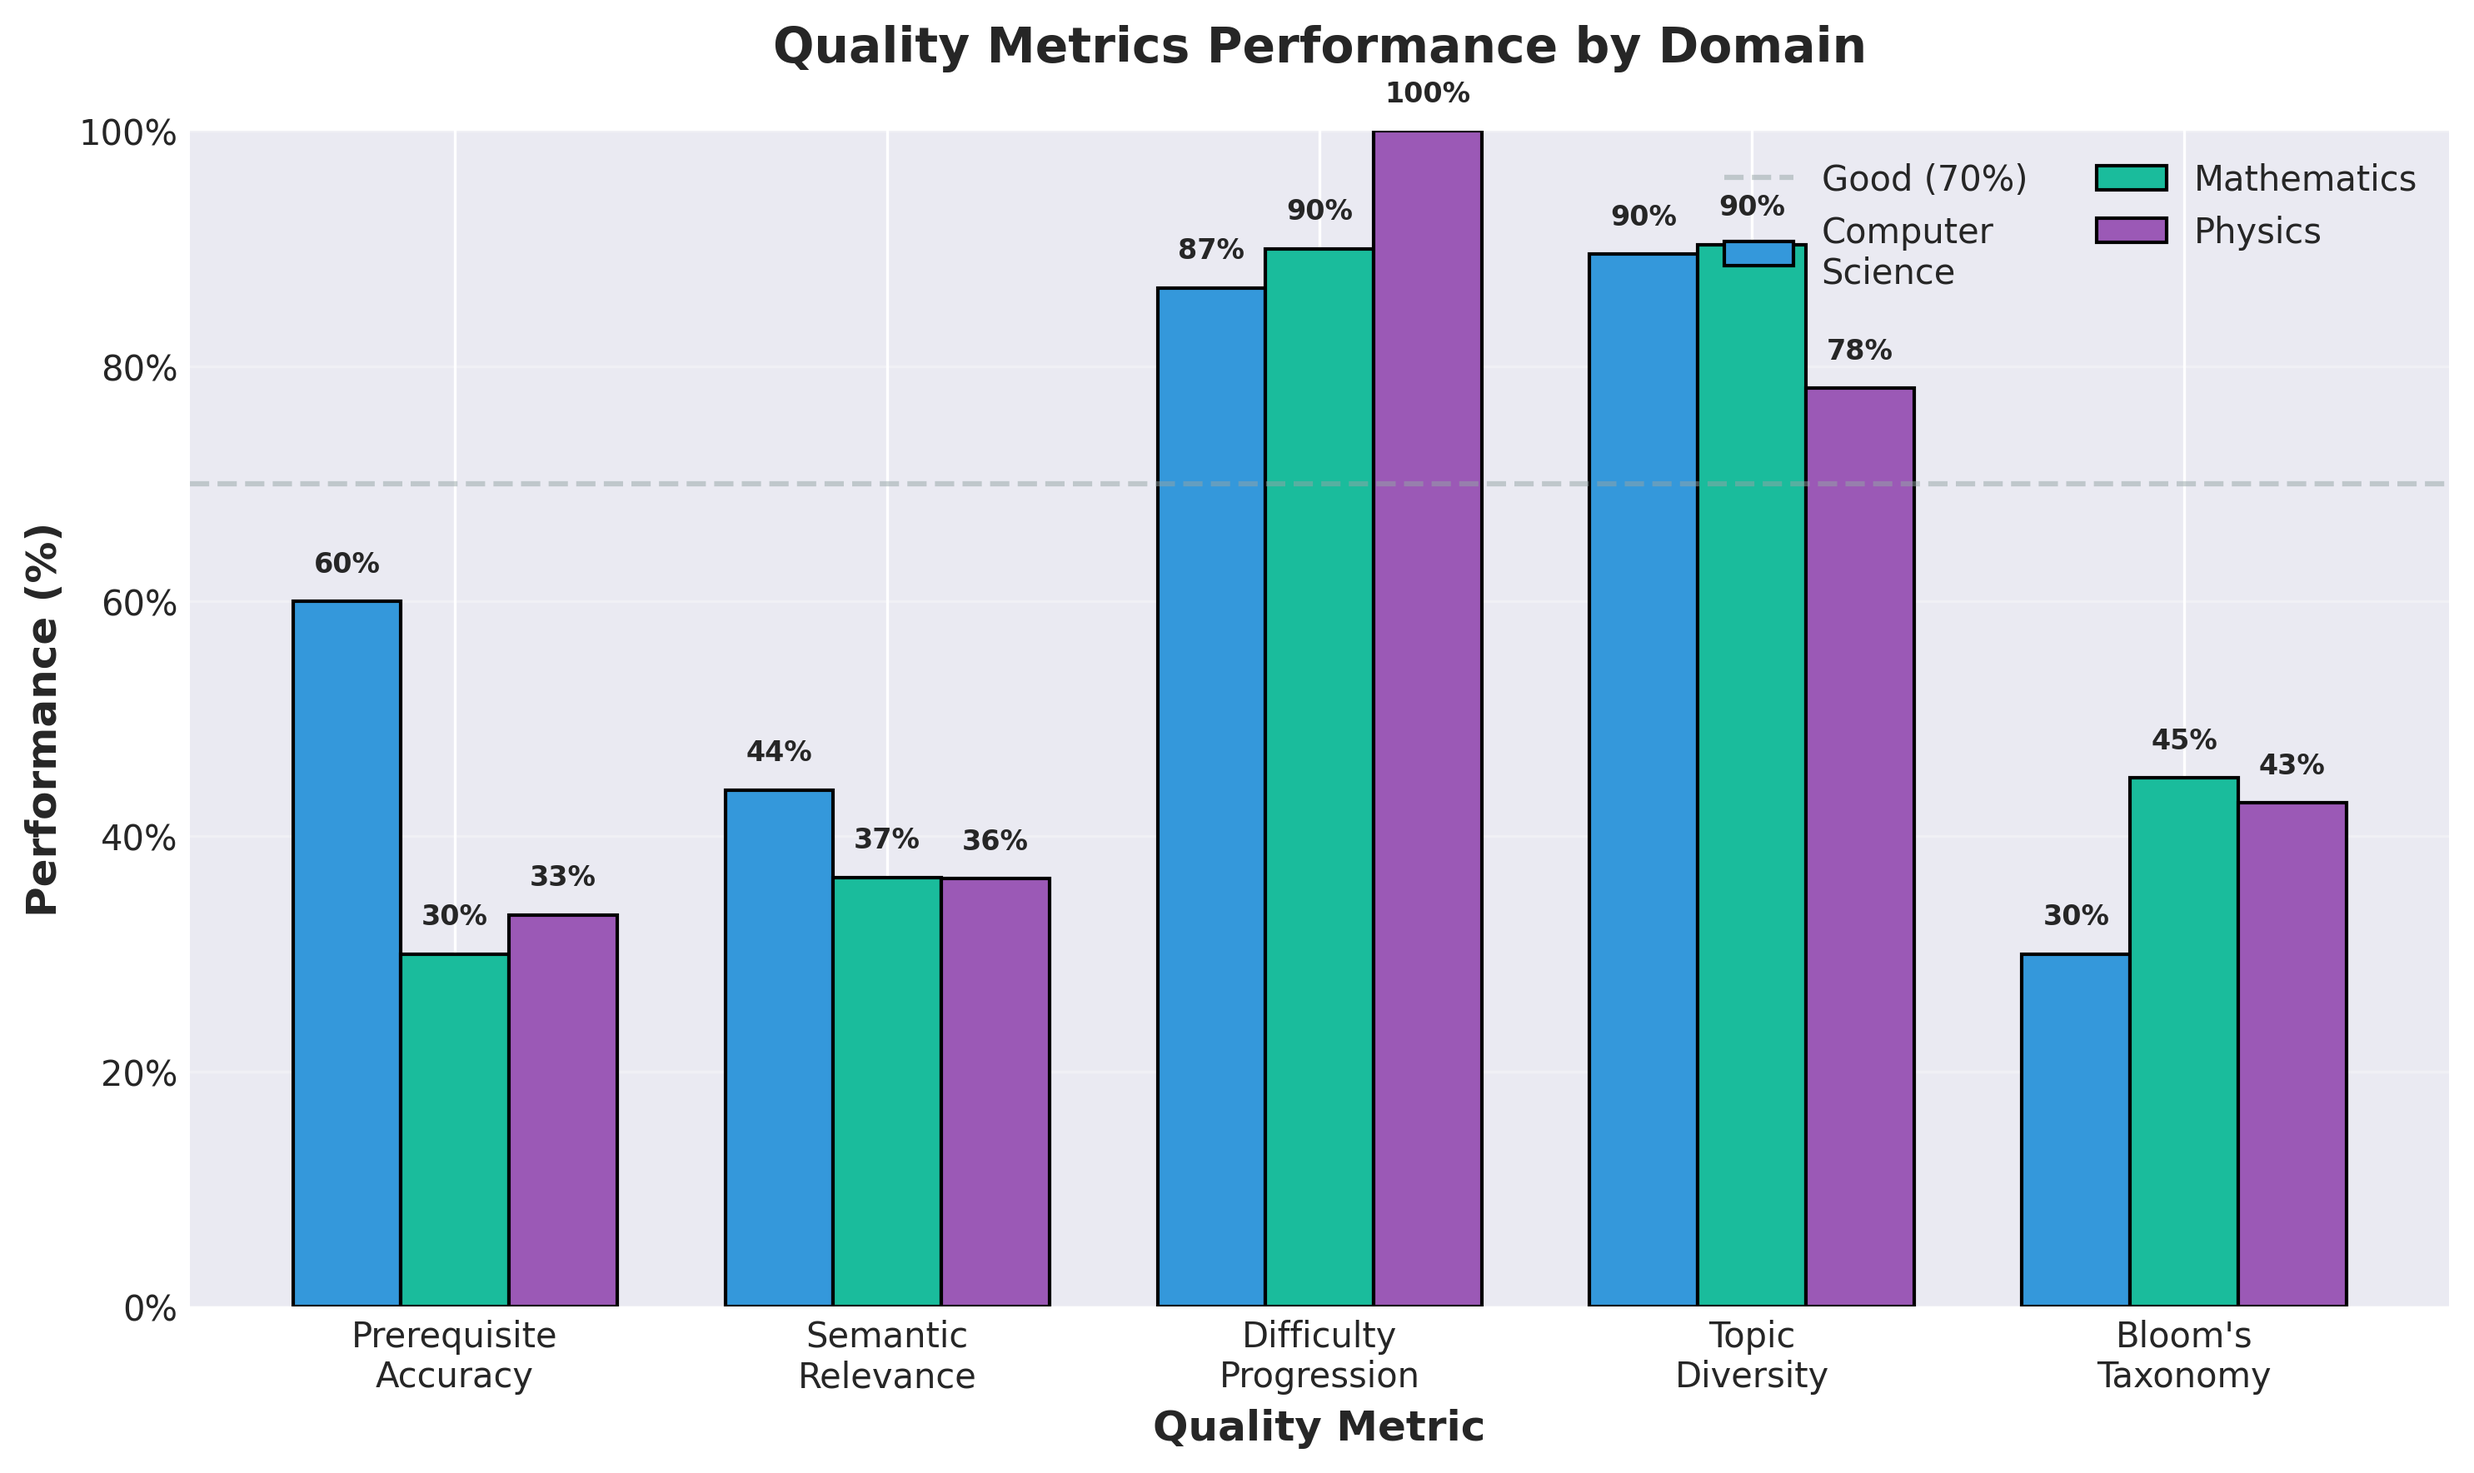
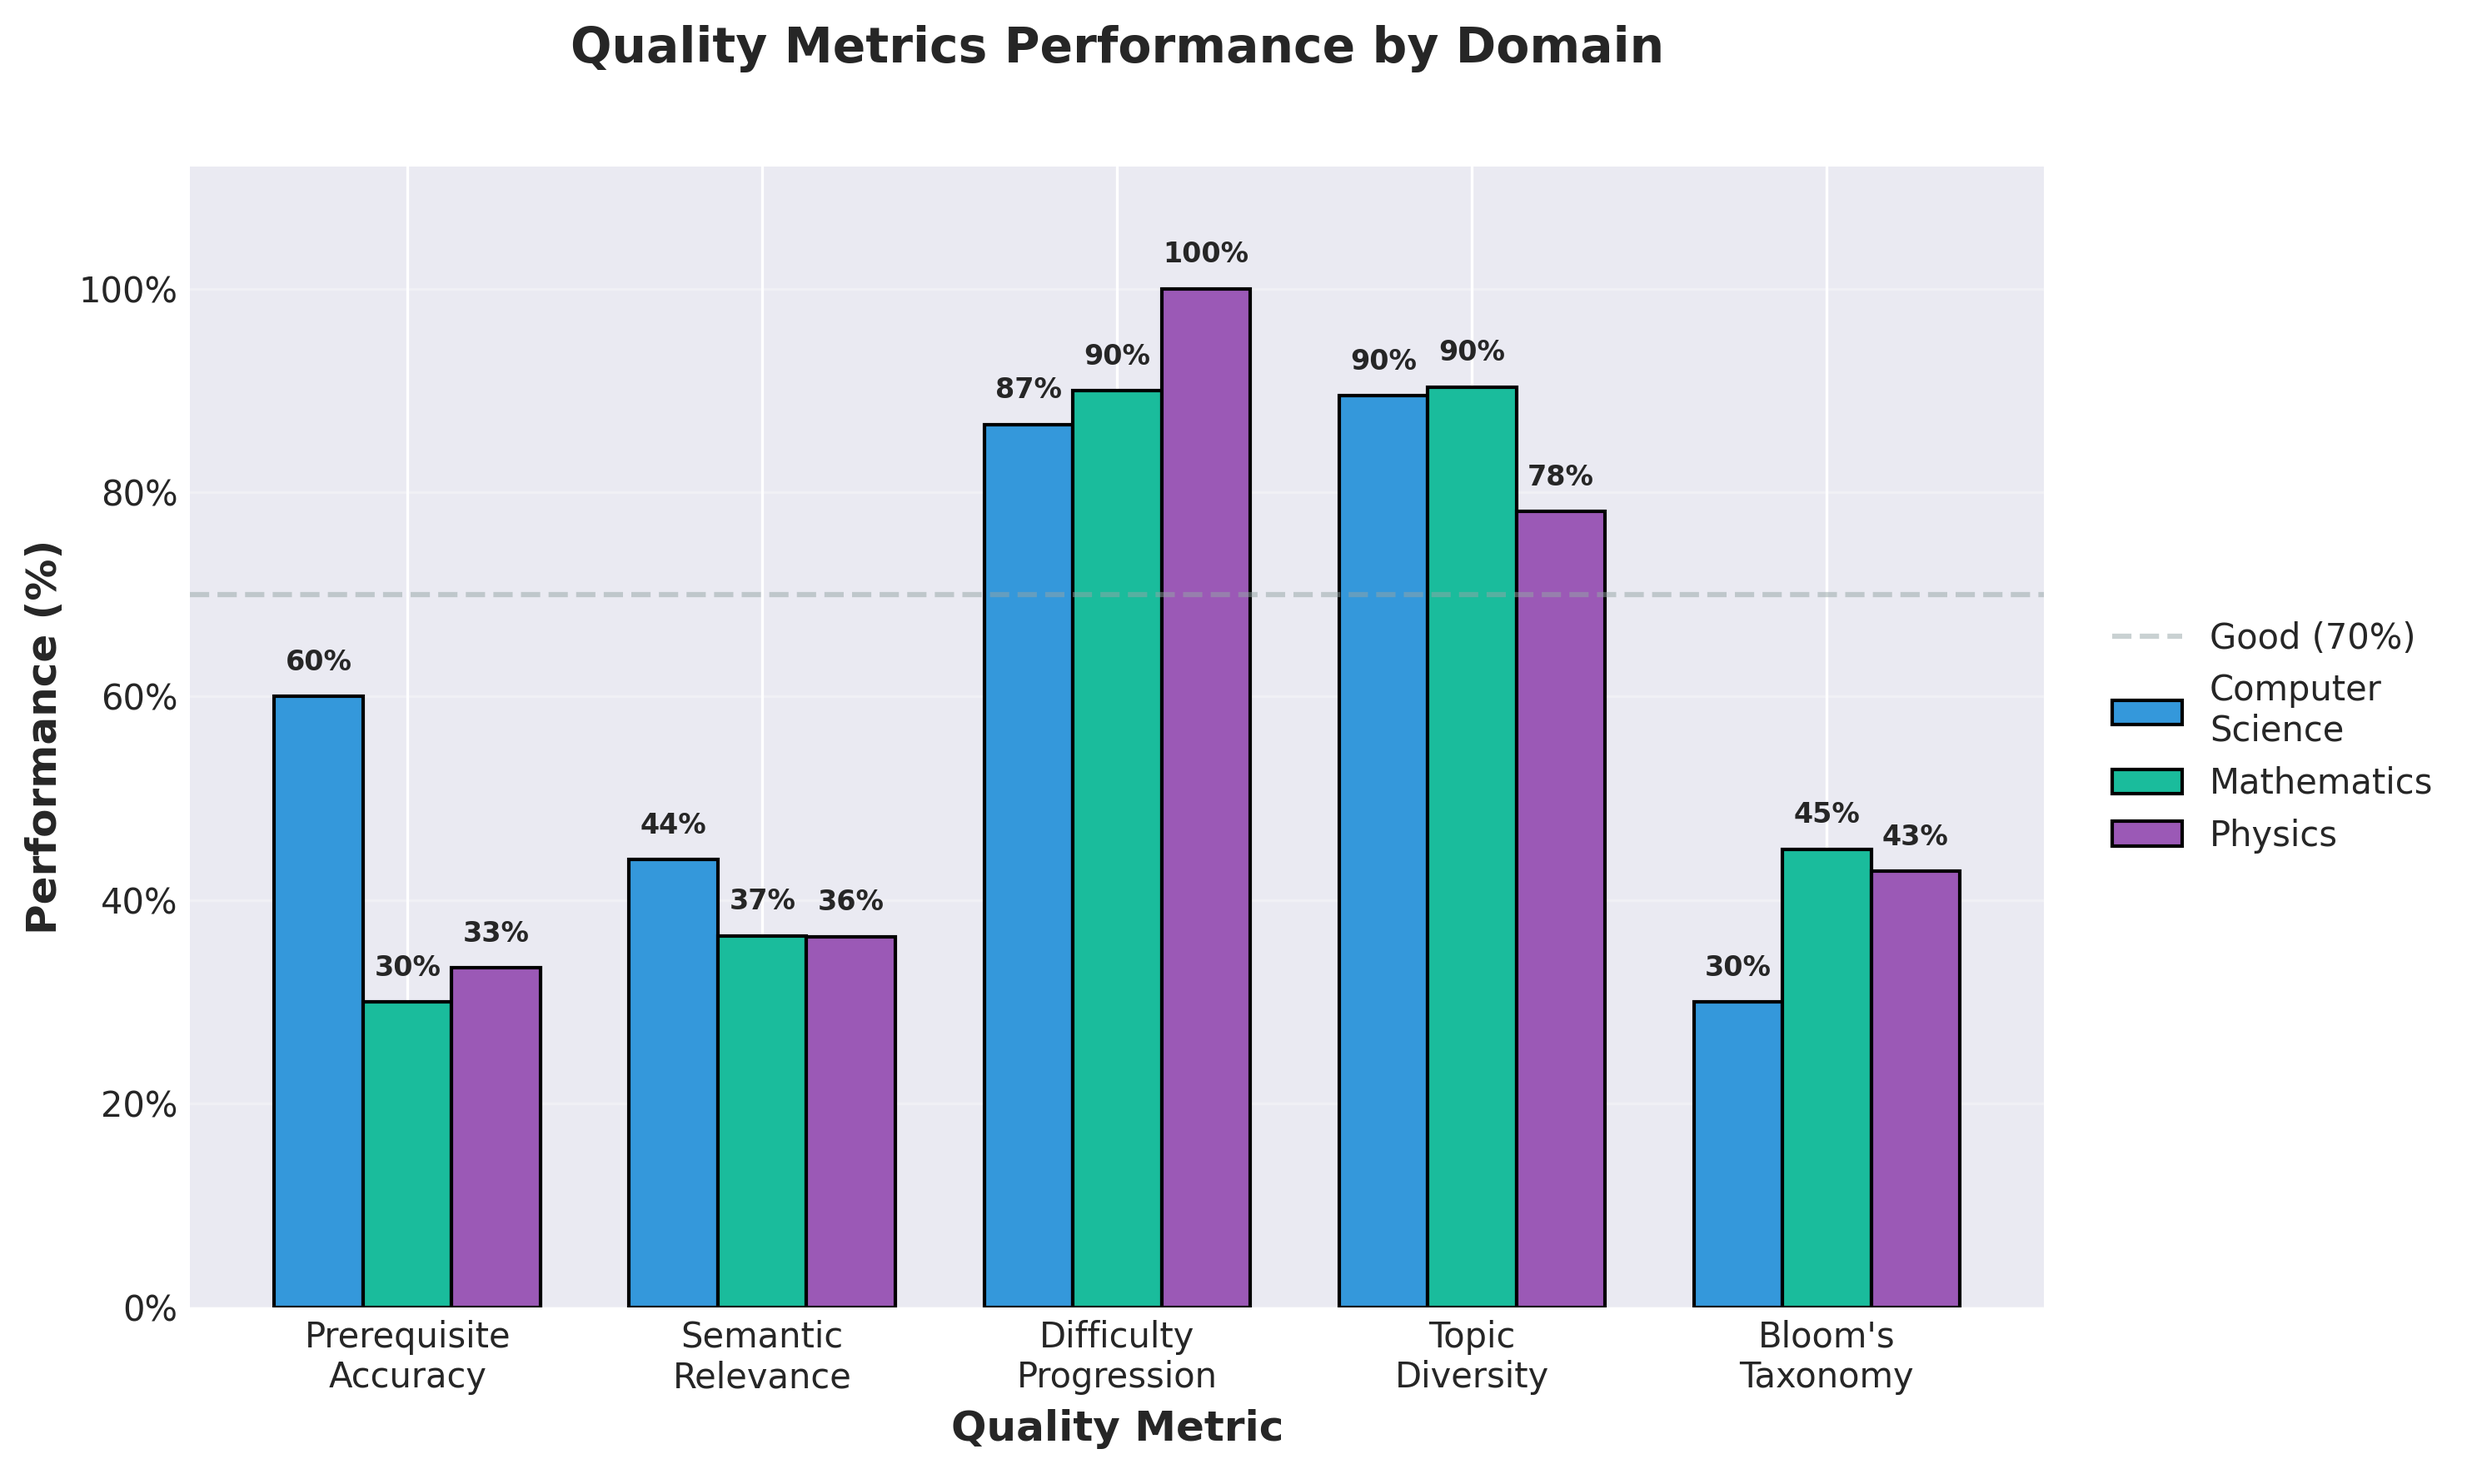
Summarize abstract and fix figure layouts for dissertation

diff --git a/scripts/visualization/fig5_quality_by_domain.py b/scripts/visualization/fig5_quality_by_domain.py
@@ -1,6 +1,6 @@
 #!/usr/bin/env python3
 """
-Figure 3: Quality Metrics Breakdown by Domain
+Figure 5: Quality Metrics Breakdown by Domain
 
 Shows how different domains perform across quality dimensions:
 - Computer Science: Strongest overall (66.7% prerequisite accuracy)
@@ -114,21 +114,24 @@ def create_quality_by_domain():
         "Quality Metrics Performance by Domain",
         fontsize=STYLE["title_size"],
         fontweight="bold",
-        pad=25,  # Increased padding
+        pad=30,  # Increased padding
     )
     ax.set_xticks(x + width)
     ax.set_xticklabels(metrics, fontsize=10)
-    ax.set_ylim(0, 1.08)  # Increased to accommodate percentage labels
+    ax.set_ylim(
+        0, 1.12
+    )  # Further increased to accommodate percentage labels above 100% bars
     ax.set_yticks([0, 0.2, 0.4, 0.6, 0.8, 1.0])
     ax.set_yticklabels(["0%", "20%", "40%", "60%", "80%", "100%"])
+    # Move legend outside plot area to avoid overlap with bars and labels
     ax.legend(
-        loc="upper left", fontsize=10, framealpha=0.95, ncol=2
-    )  # Moved to upper left to avoid overlap
+        loc="center left", bbox_to_anchor=(1.02, 0.5), fontsize=10, framealpha=0.95
+    )
     ax.grid(axis="y", alpha=0.3)
 
     plt.tight_layout()
 
-    output_path = OUTPUT_DIR / "fig3_quality_by_domain.png"
+    output_path = OUTPUT_DIR / "fig5_quality_by_domain.png"
     plt.savefig(output_path, dpi=STYLE["dpi"], bbox_inches="tight")
     print(f"\n✅ Saved: {output_path}")
 

diff --git a/scripts/visualization/generate_all.py b/scripts/visualization/generate_all.py
@@ -15,9 +15,9 @@ import time
 from pathlib import Path
 
 from fig1_prerequisite_distribution import create_prerequisite_distribution
-from fig2_quality_radar import create_quality_radar
-from fig3_quality_by_domain import create_quality_by_domain
-from fig4_prerequisites_by_level import create_prerequisites_by_level
+from fig4_quality_radar import create_quality_radar
+from fig5_quality_by_domain import create_quality_by_domain
+from fig6_prerequisites_by_level import create_prerequisites_by_level
 
 
 def main():
@@ -30,9 +30,9 @@ def main():
 
     figures = [
         ("Figure 1: Prerequisite Distribution", create_prerequisite_distribution),
-        ("Figure 2: Quality Radar", create_quality_radar),
-        ("Figure 3: Quality by Domain", create_quality_by_domain),
-        ("Figure 4: Prerequisites by Level", create_prerequisites_by_level),
+        ("Figure 4: Quality Radar", create_quality_radar),
+        ("Figure 5: Quality by Domain", create_quality_by_domain),
+        ("Figure 6: Prerequisites by Level", create_prerequisites_by_level),
     ]
 
     output_paths = []

diff --git a/scripts/visualization/fig4_quality_radar.py b/scripts/visualization/fig4_quality_radar.py
@@ -1,6 +1,6 @@
 #!/usr/bin/env python3
 """
-Figure 2: Quality Metrics Radar Chart
+Figure 4: Quality Metrics Radar Chart
 
 Shows balanced view of model performance across 5 key dimensions:
 - Prerequisite accuracy (weakest: 29.6%)
@@ -91,16 +91,17 @@ def create_quality_radar():
         "Model Performance Across Quality Dimensions",
         fontsize=STYLE["title_size"],
         fontweight="bold",
-        pad=30,  # Increased padding to prevent title overlap
+        pad=40,  # Further increased padding to prevent title overlap
     )
+    # Move legend below title to avoid overlap
     ax.legend(
-        loc="upper right", bbox_to_anchor=(1.25, 1.05), fontsize=10, framealpha=0.95
+        loc="upper right", bbox_to_anchor=(1.3, 0.95), fontsize=10, framealpha=0.95
     )
     ax.grid(True, alpha=0.3)
 
     plt.tight_layout()
 
-    output_path = OUTPUT_DIR / "fig2_quality_radar.png"
+    output_path = OUTPUT_DIR / "fig4_quality_radar.png"
     plt.savefig(output_path, dpi=STYLE["dpi"], bbox_inches="tight")
     print(f"\n✅ Saved: {output_path}")
 

diff --git a/scripts/visualization/fig6_prerequisites_by_level.py b/scripts/visualization/fig6_prerequisites_by_level.py
@@ -1,6 +1,6 @@
 #!/usr/bin/env python3
 """
-Figure 4: Prerequisite Accuracy by Difficulty Level
+Figure 6: Prerequisite Accuracy by Difficulty Level
 
 Shows how prerequisite accuracy varies by course difficulty:
 - Advanced: Lowest (33.3%) - struggles with complex prerequisite chains
@@ -169,7 +169,7 @@ def create_prerequisites_by_level():
 
     plt.tight_layout()
 
-    output_path = OUTPUT_DIR / "fig4_prerequisites_by_level.png"
+    output_path = OUTPUT_DIR / "fig6_prerequisites_by_level.png"
     plt.savefig(output_path, dpi=STYLE["dpi"], bbox_inches="tight")
     print(f"\n✅ Saved: {output_path}")
 

diff --git a/scripts/visualization/fig1_prerequisite_distribution.py b/scripts/visualization/fig1_prerequisite_distribution.py
@@ -100,9 +100,10 @@ def create_prerequisite_distribution():
         pad=25,  # Increased padding
     )
     ax.set_xlim(0, 100)
+    # Move legend outside plot area to avoid overlap with bars
     ax.legend(
-        loc="upper right", fontsize=10, framealpha=0.95
-    )  # Increased alpha for better visibility
+        loc="center left", bbox_to_anchor=(1.02, 0.5), fontsize=10, framealpha=0.95
+    )
     ax.grid(axis="x", alpha=0.3)
 
     plt.tight_layout()

diff --git a/docs/dissertation.md b/docs/dissertation.md
@@ -2,15 +2,9 @@
 
 ## Abstract
 
-Creating high-quality course syllabi requires substantial time investment—typically 15-40 hours per course (Thompson et al., 2023)—combining domain expertise with pedagogical knowledge. This research investigates whether neural language models can reliably generate structured educational content whilst maintaining pedagogical soundness, addressing the fundamental tension between semantic intelligence and syntactic precision in AI-generated curricula.
+This research investigates whether neural language models can reliably generate structured educational content, addressing the tension between semantic intelligence and syntactic precision in AI-generated curricula. Through Design Science Research spanning seven architectural iterations, this work demonstrates that task simplification—not model scaling—resolves structural generation bottlenecks. The final architecture employs CodeT5-small (60M parameters) with index-based component selection from semantically ranked candidates, achieving 100% parseable outputs across 32 test cases where previous approaches failed completely.
 
-Through Design Science Research methodology spanning seven architectural iterations, this work demonstrates that task simplification—not model scaling—resolves structural generation bottlenecks. The final architecture employs CodeT5-small (60M parameters) generating structured markdown with index-based component selection from semantically ranked candidates rather than attempting direct identifier generation. This reformulation achieved 100% parseable outputs across 32 test cases spanning Computer Science, Mathematics, and Physics domains, where previous approaches failed completely (0% success rate).
-
-The research develops a five-dimensional pedagogical quality evaluation framework measuring prerequisite coherence, semantic relevance, difficulty progression, topic diversity, and Bloom's taxonomy coverage. Evaluation reveals distinct performance patterns: naturally emergent strengths in topic diversity (87.3%) and difficulty progression (90.6%), contrasted with persistent challenges in prerequisite sequencing (44.8% accuracy, with 50% of syllabi exhibiting zero prerequisite coherence). This framework successfully distinguishes soft constraints learnable through training from hard constraints requiring explicit algorithmic enforcement.
-
-Key contributions include: (1) empirical validation that constrained output spaces enable smaller models to achieve reliability through appropriate task formulation rather than parameter scaling, (2) a measurable pedagogical quality framework identifying specific architectural enhancement targets, and (3) transparent documentation of systematic failures demonstrating that understanding why approaches fail provides equivalent research value to successful solutions.
-
-The work acknowledges significant limitations: CodeT5-small handles only 3-module syllabi (~30% of typical course scope), automated evaluation lacks expert educator validation, synthetic training data may not capture full pedagogical diversity, and prerequisite sequencing requires architectural enhancement through constraint-based generation or graph neural networks. Future directions include topological sorting for prerequisite enforcement, model scaling to CodeT5-base for production-length syllabi, and human evaluation protocols validating automated quality metrics.
+A five-dimensional pedagogical quality framework reveals distinct performance patterns: emergent strengths in topic diversity (87.3%) and difficulty progression (90.6%), contrasted with persistent prerequisite sequencing challenges (44.8% accuracy). Key contributions include empirical validation that constrained output spaces enable smaller models to achieve reliability through appropriate task formulation, and a measurable quality framework distinguishing soft constraints learnable through training from hard constraints requiring algorithmic enforcement. The work transparently documents limitations—handling only 3-module syllabi, lacking expert validation, and requiring architectural enhancement for prerequisite coherence—demonstrating that systematic failure analysis provides equivalent research value to successful solutions.
 
 ## Table of Contents
 
